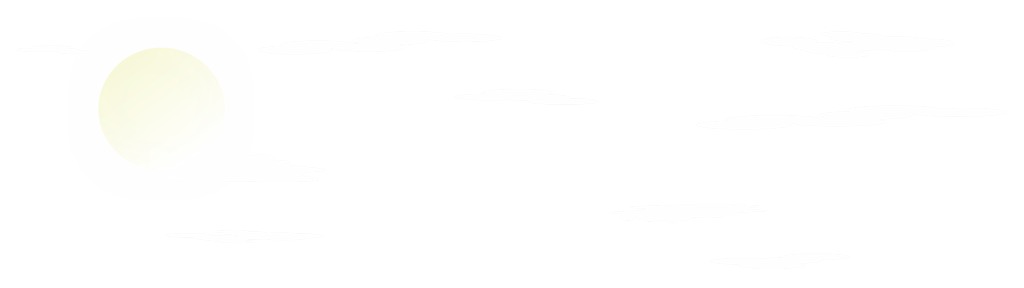
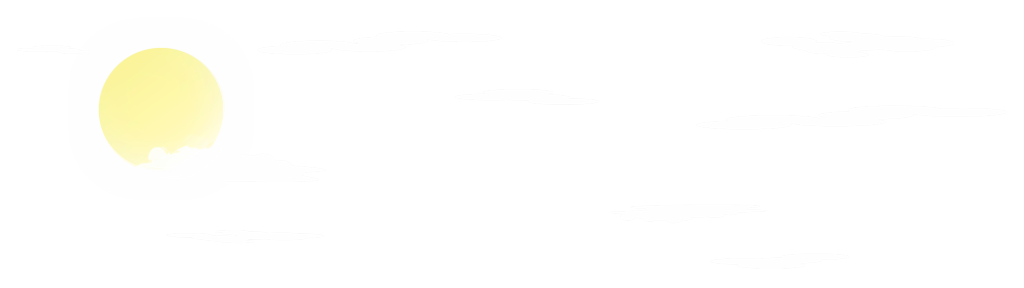
Hahmon kokoon liittyvä testi

Changed region(s): [[0.0938, 0.1562, 0.2188, 0.5938]]

diff --git a/Mikan kokeilut/testi.js b/Mikan kokeilut/testi.js
@@ -1,5 +1,8 @@
 const canvas = document.querySelector('#kanvas');
 const ctx = canvas.getContext("2d");
+ctx.imageSmoothingEnabled = true;
+ctx.imageSmoothingQuality = 'medium';
+
 let taustat = [], vanha = 0;
 
 class Pelaaja {
@@ -9,7 +12,7 @@ class Pelaaja {
         this.nykyinenFrame = 0;
         this.yOffset = 25;
         this.xOffset = 50;
-        
+        this.lisays = 0;        
         this.kuva.onload = () => {
             this.leveys = this.kuva.width / this.frameja;
             this.korkeus = this.kuva.height;
@@ -17,6 +20,9 @@ class Pelaaja {
                 x: canvas.width / 2 - this.leveys / 2 + this.xOffset,
                 y: canvas.height-this.korkeus-this.yOffset
             }
+            // console.log(this.leveys+'x'+this.korkeus);
+            this.suhde = this.leveys / this.korkeus;
+            // console.log(this.korkeus * suhde);
     
         }
         this.kuva.src = kuvatiedosto;
@@ -33,9 +39,10 @@ class Pelaaja {
             this.leveys,
             this.korkeus,
             this.paikka.x,
-            this.paikka.y,
-            this.leveys,
-            this.korkeus);
+            this.paikka.y-this.lisays,
+            this.leveys+this.lisays*this.suhde,
+            this.korkeus+this.lisays
+        );
         this.nykyinenFrame = (this.nykyinenFrame < this.frameja-1) ? this.nykyinenFrame += 1 : 0;
     }
 
@@ -104,6 +111,16 @@ window.onload = () => {
         if (!tausta.latautunut) console.log(tausta.kuvatiedosto+' ei ole latautumut!');
     })
     
+    window.addEventListener('keydown', (evnt) => {
+        if (evnt.key == 'ArrowUp' || evnt.code == 'ArrowUp') {
+            pelaaja.lisays += 1;
+        }
+        if (evnt.key == 'ArrowDown' || evnt.code == 'ArrowDown') {
+            pelaaja.lisays -= 1;
+        }
+    });
+
+
     animoi();
 }
 
@@ -132,6 +149,10 @@ function animoi(aika) {
 
             /* piirretään alin tausta */
             taustat[taustat.length-1].piirra(nopeus);
+
+            ctx.fillStyle = 'black';
+            ctx.font = '30px serif';
+            ctx.fillText(pelaaja.korkeus+pelaaja.lisays+'px',4,30);
         }
 
     }
